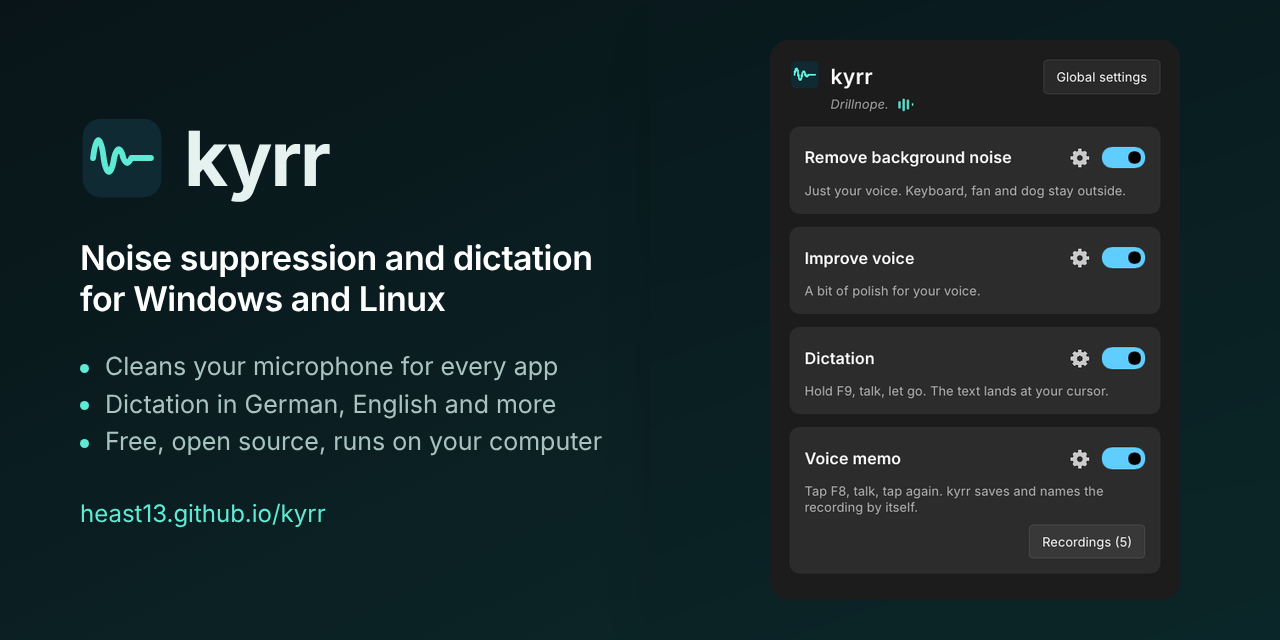
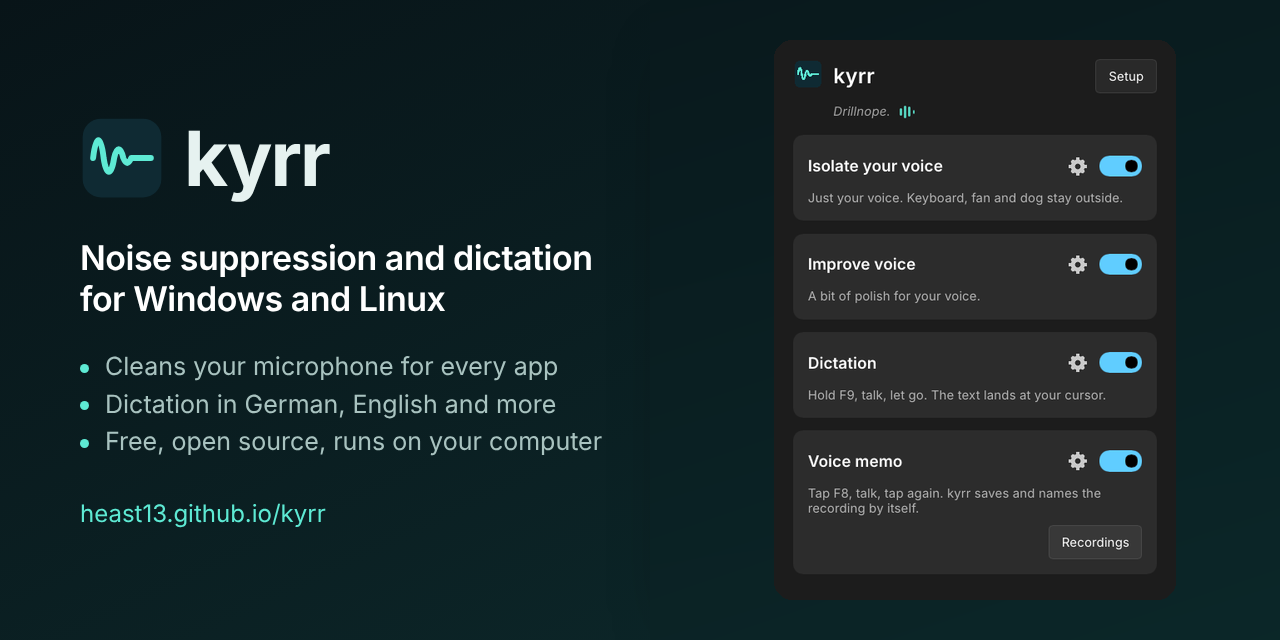
Screenshots and link previews for the Setup page and "Isolate your voice" (#88)
Claude-Session: https://claude.ai/code/session_01L2hKs7m35dEF4PRe6JQ2yG

diff --git a/README.md b/README.md
@@ -53,7 +53,7 @@ What it does:
   <img src="docs/screenshots/main.png" width="380" alt="kyrr's window: noise filter, improve voice and dictation, each with one switch and a gear for its settings">
 </p>
 <p align="center">
-  <img src="docs/screenshots/settings.png" width="900" alt="The settings pages that the gears open: noise (filter strength, level check with before/after test and listening), voice (sound with sliders, compressor, S sounds, low cut, pop protection, distance compensation, automatic volume) and dictation (key and how it works)">
+  <img src="docs/screenshots/settings.png" width="760" alt="The pages the gears open: isolate your voice (filter strength), dictation (key and how it works) and improve voice (sound with sliders, compressor, S sounds, low cut, pop protection, distance compensation, automatic volume)">
 </p>
 
 Status: young and in active development.
